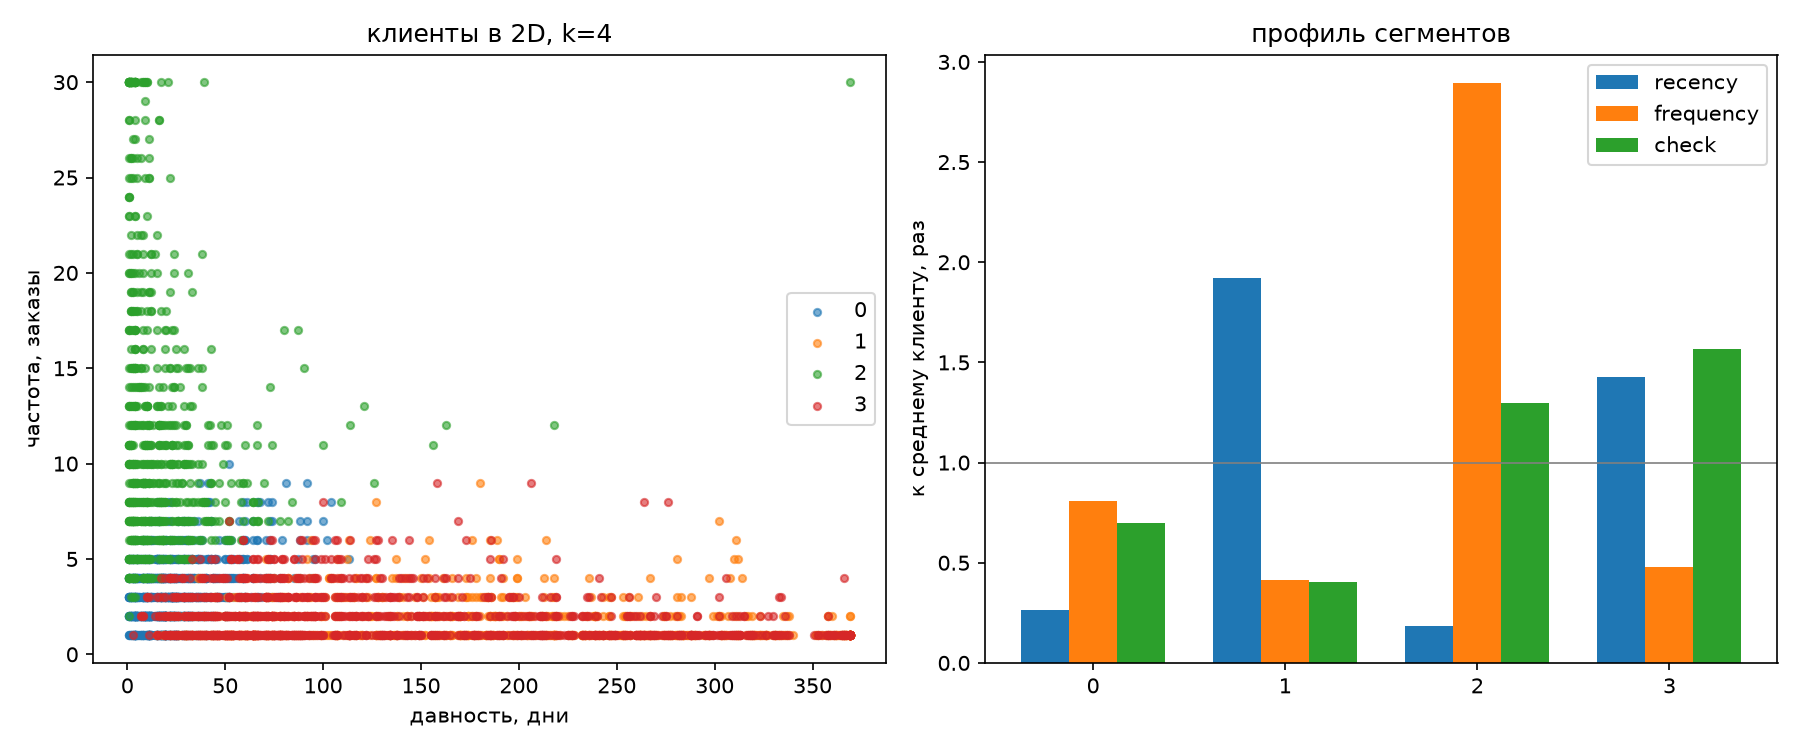
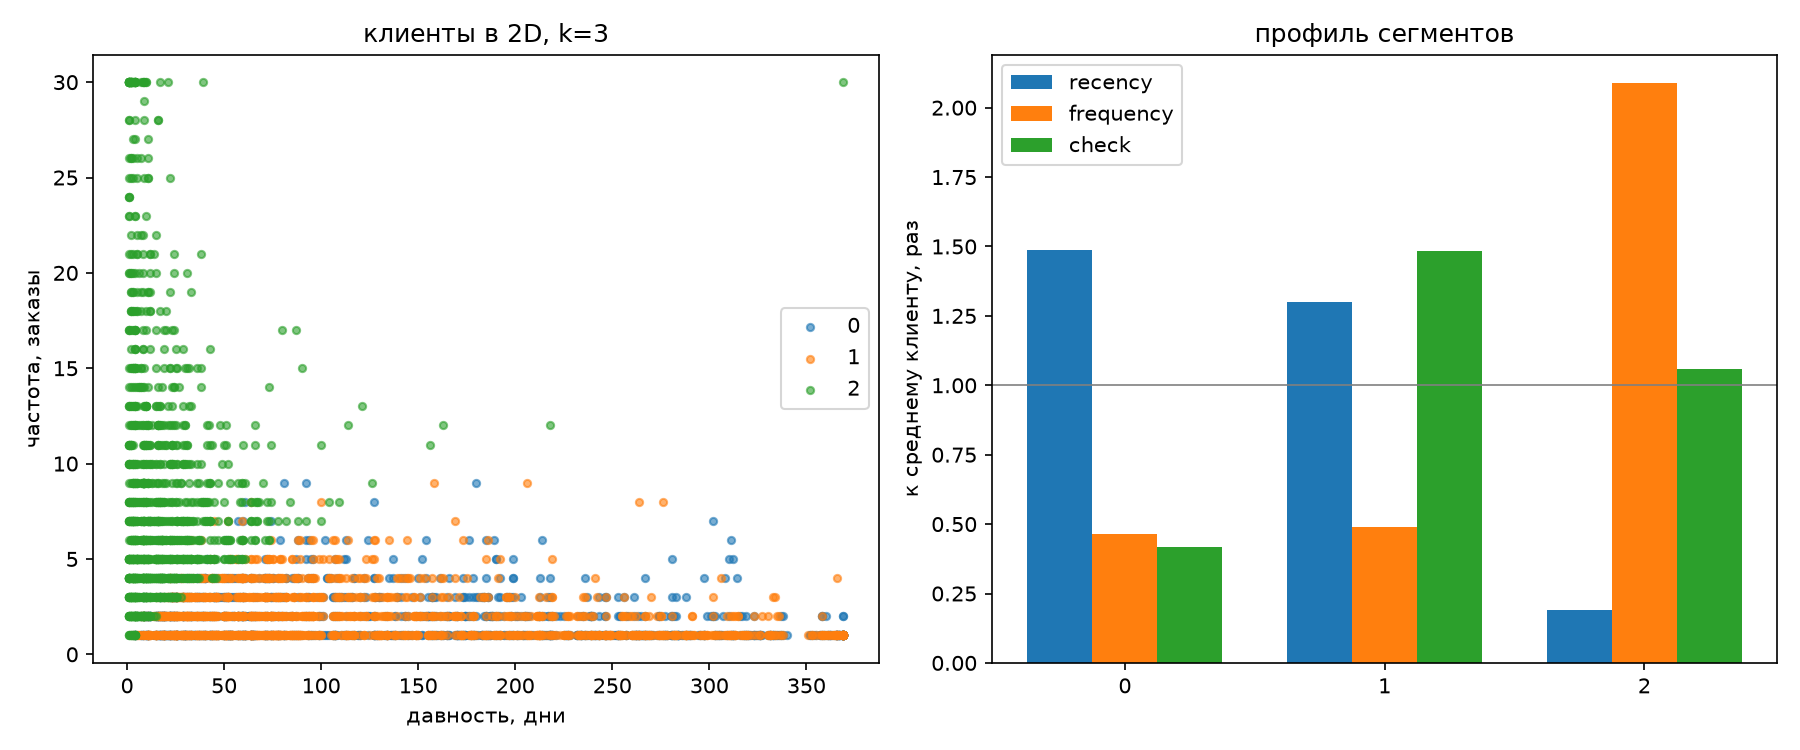
LLM: 6 ref

diff --git a/LLM/task6/main.py b/LLM/task6/main.py
@@ -3,6 +3,7 @@ import matplotlib.pyplot as plt
 import numpy as np
 import pandas as pd
 from sklearn.cluster import KMeans
+from sklearn.metrics import silhouette_score
 from ucimlrepo import fetch_ucirepo
 
 # python LLM\task6\main.py
@@ -52,7 +53,20 @@ print("клиентов:", len(rfm))
 
 x = np.log1p(rfm[["recency", "frequency", "check"]].to_numpy())
 x = (x - x.mean(axis=0)) / x.std(axis=0)
-rfm["cluster"] = KMeans(n_clusters=4, random_state=42, n_init=10).fit_predict(x)
+
+k = 3
+best = -1.0
+cluster = None
+for n in range(3, 6):
+    cur = KMeans(n_clusters=n, random_state=42, n_init=10).fit_predict(x)
+    score = float(silhouette_score(x, cur))
+    print("k", n, "silhouette", round(score, 4))
+    if score > best:
+        k = n
+        best = score
+        cluster = cur
+rfm["cluster"] = cluster
+print("выбран k =", k, ", silhouette =", round(best, 4))
 
 base = rfm[["recency", "frequency", "check"]].mean()
 centers = rfm.groupby("cluster")[["recency", "frequency", "check"]].mean().sort_index()
@@ -87,19 +101,19 @@ for c in centers.index:
     )
 
 fig, ax = plt.subplots(1, 2, figsize=(12, 5))
-for c in range(4):
+for c in range(k):
     m = rfm["cluster"].to_numpy() == c
     ax[0].scatter(rfm["recency"].to_numpy()[m], rfm["frequency"].to_numpy()[m], s=12, alpha=0.6, label=str(c))
 ax[0].set_xlabel("давность, дни")
 ax[0].set_ylabel("частота, заказы")
-ax[0].set_title("клиенты в 2D, k=4")
+ax[0].set_title("клиенты в 2D, k=" + str(k))
 ax[0].legend()
 
 rel = centers / base
 for i, col in enumerate(["recency", "frequency", "check"]):
-    ax[1].bar(np.arange(4) + (i - 1) * 0.25, rel[col].to_numpy(), 0.25, label=col)
+    ax[1].bar(np.arange(k) + (i - 1) * 0.25, rel[col].to_numpy(), 0.25, label=col)
 ax[1].axhline(1, color="gray", lw=0.8)
-ax[1].set_xticks(np.arange(4))
+ax[1].set_xticks(np.arange(k))
 ax[1].set_ylabel("к среднему клиенту, раз")
 ax[1].set_title("профиль сегментов")
 ax[1].legend()
